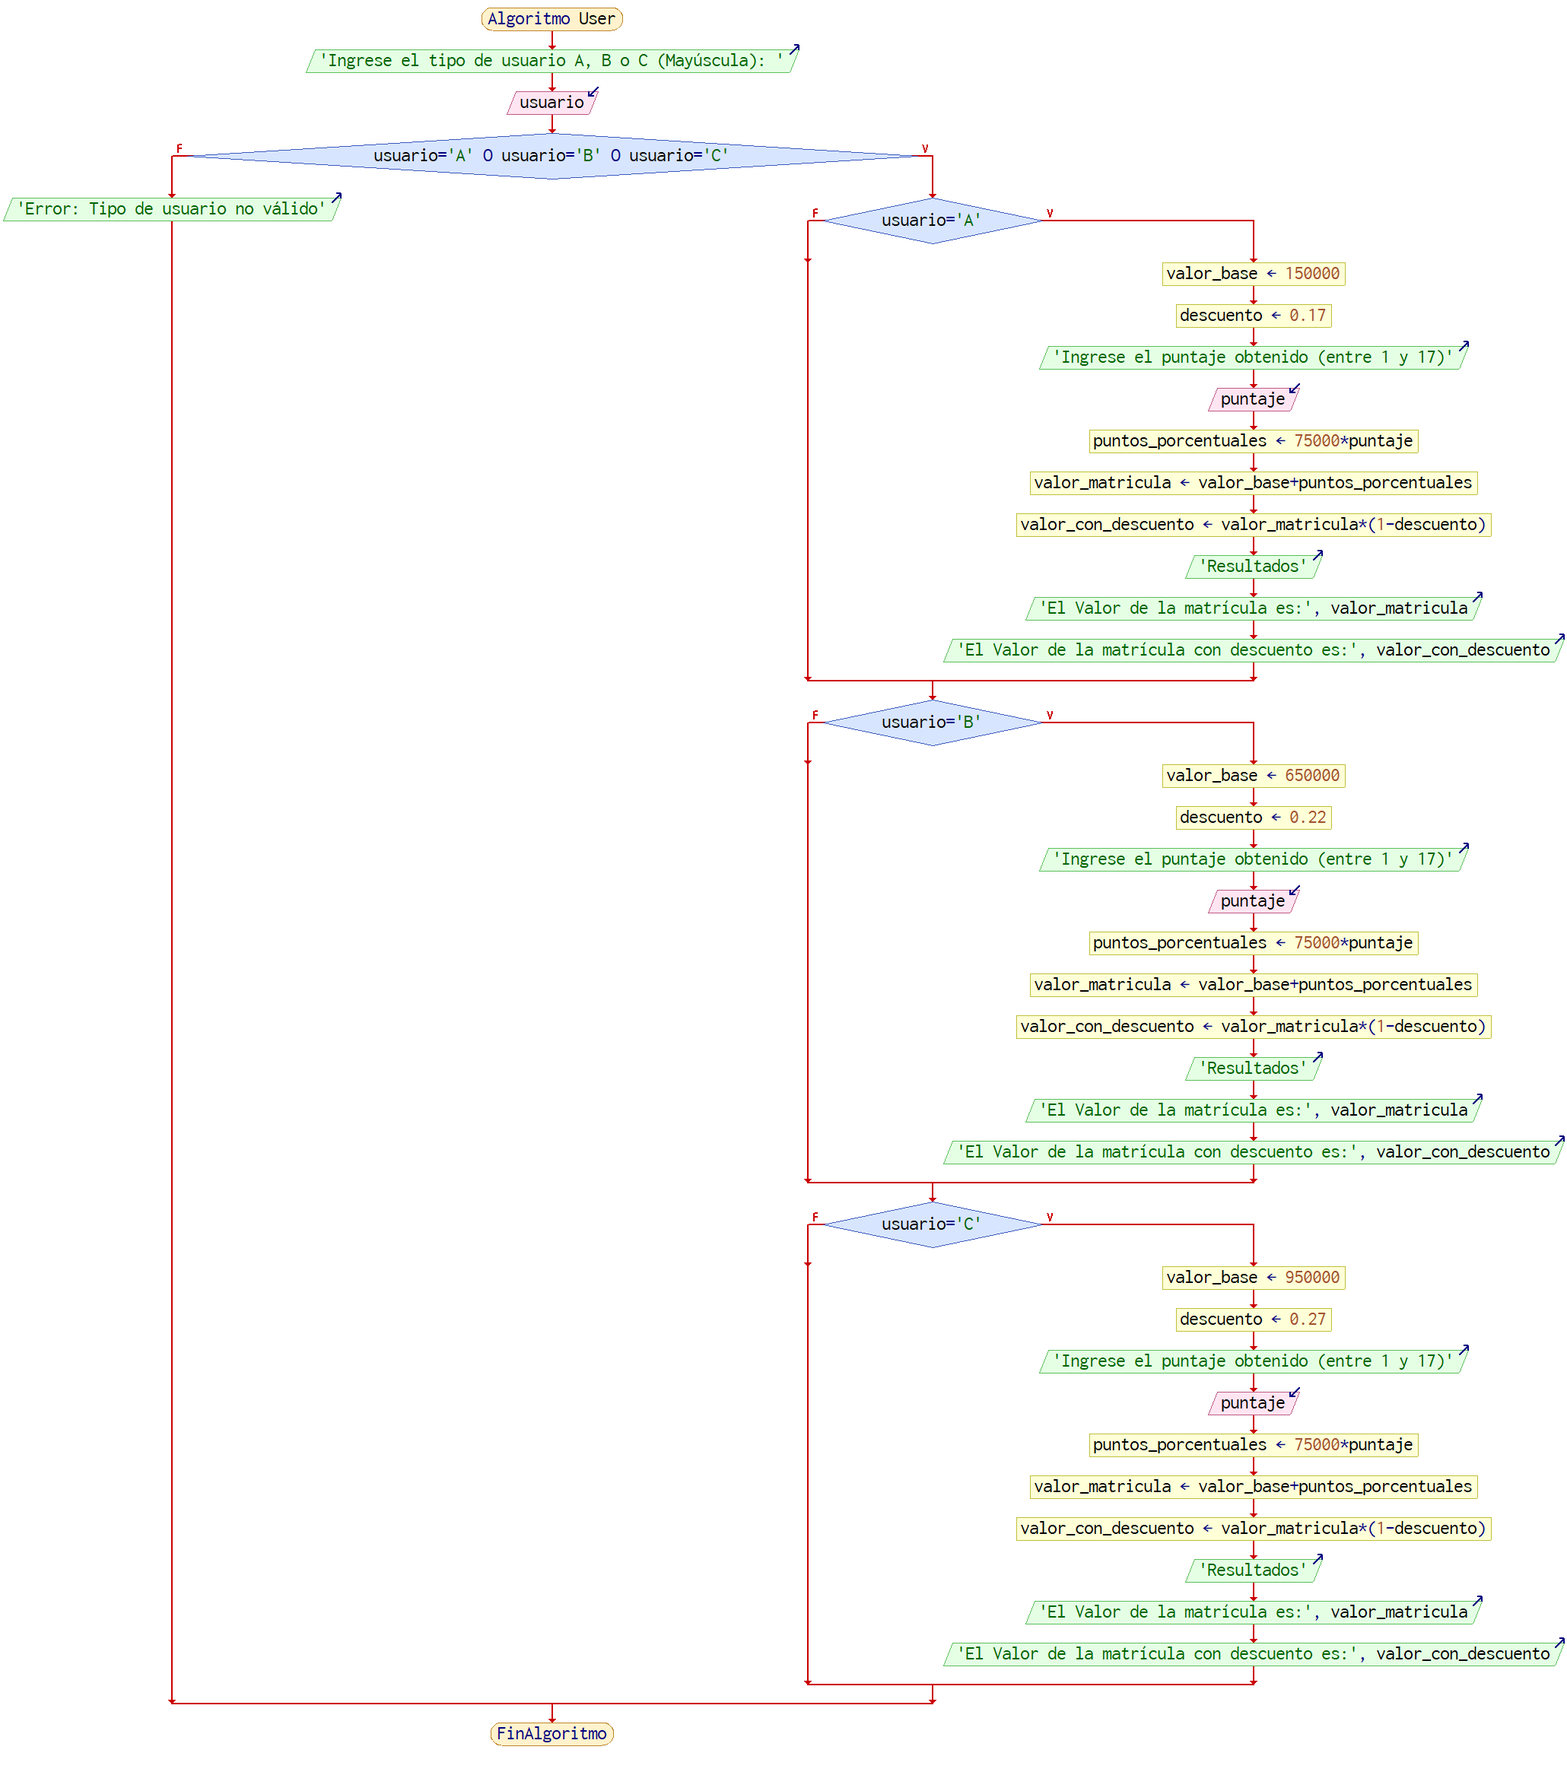
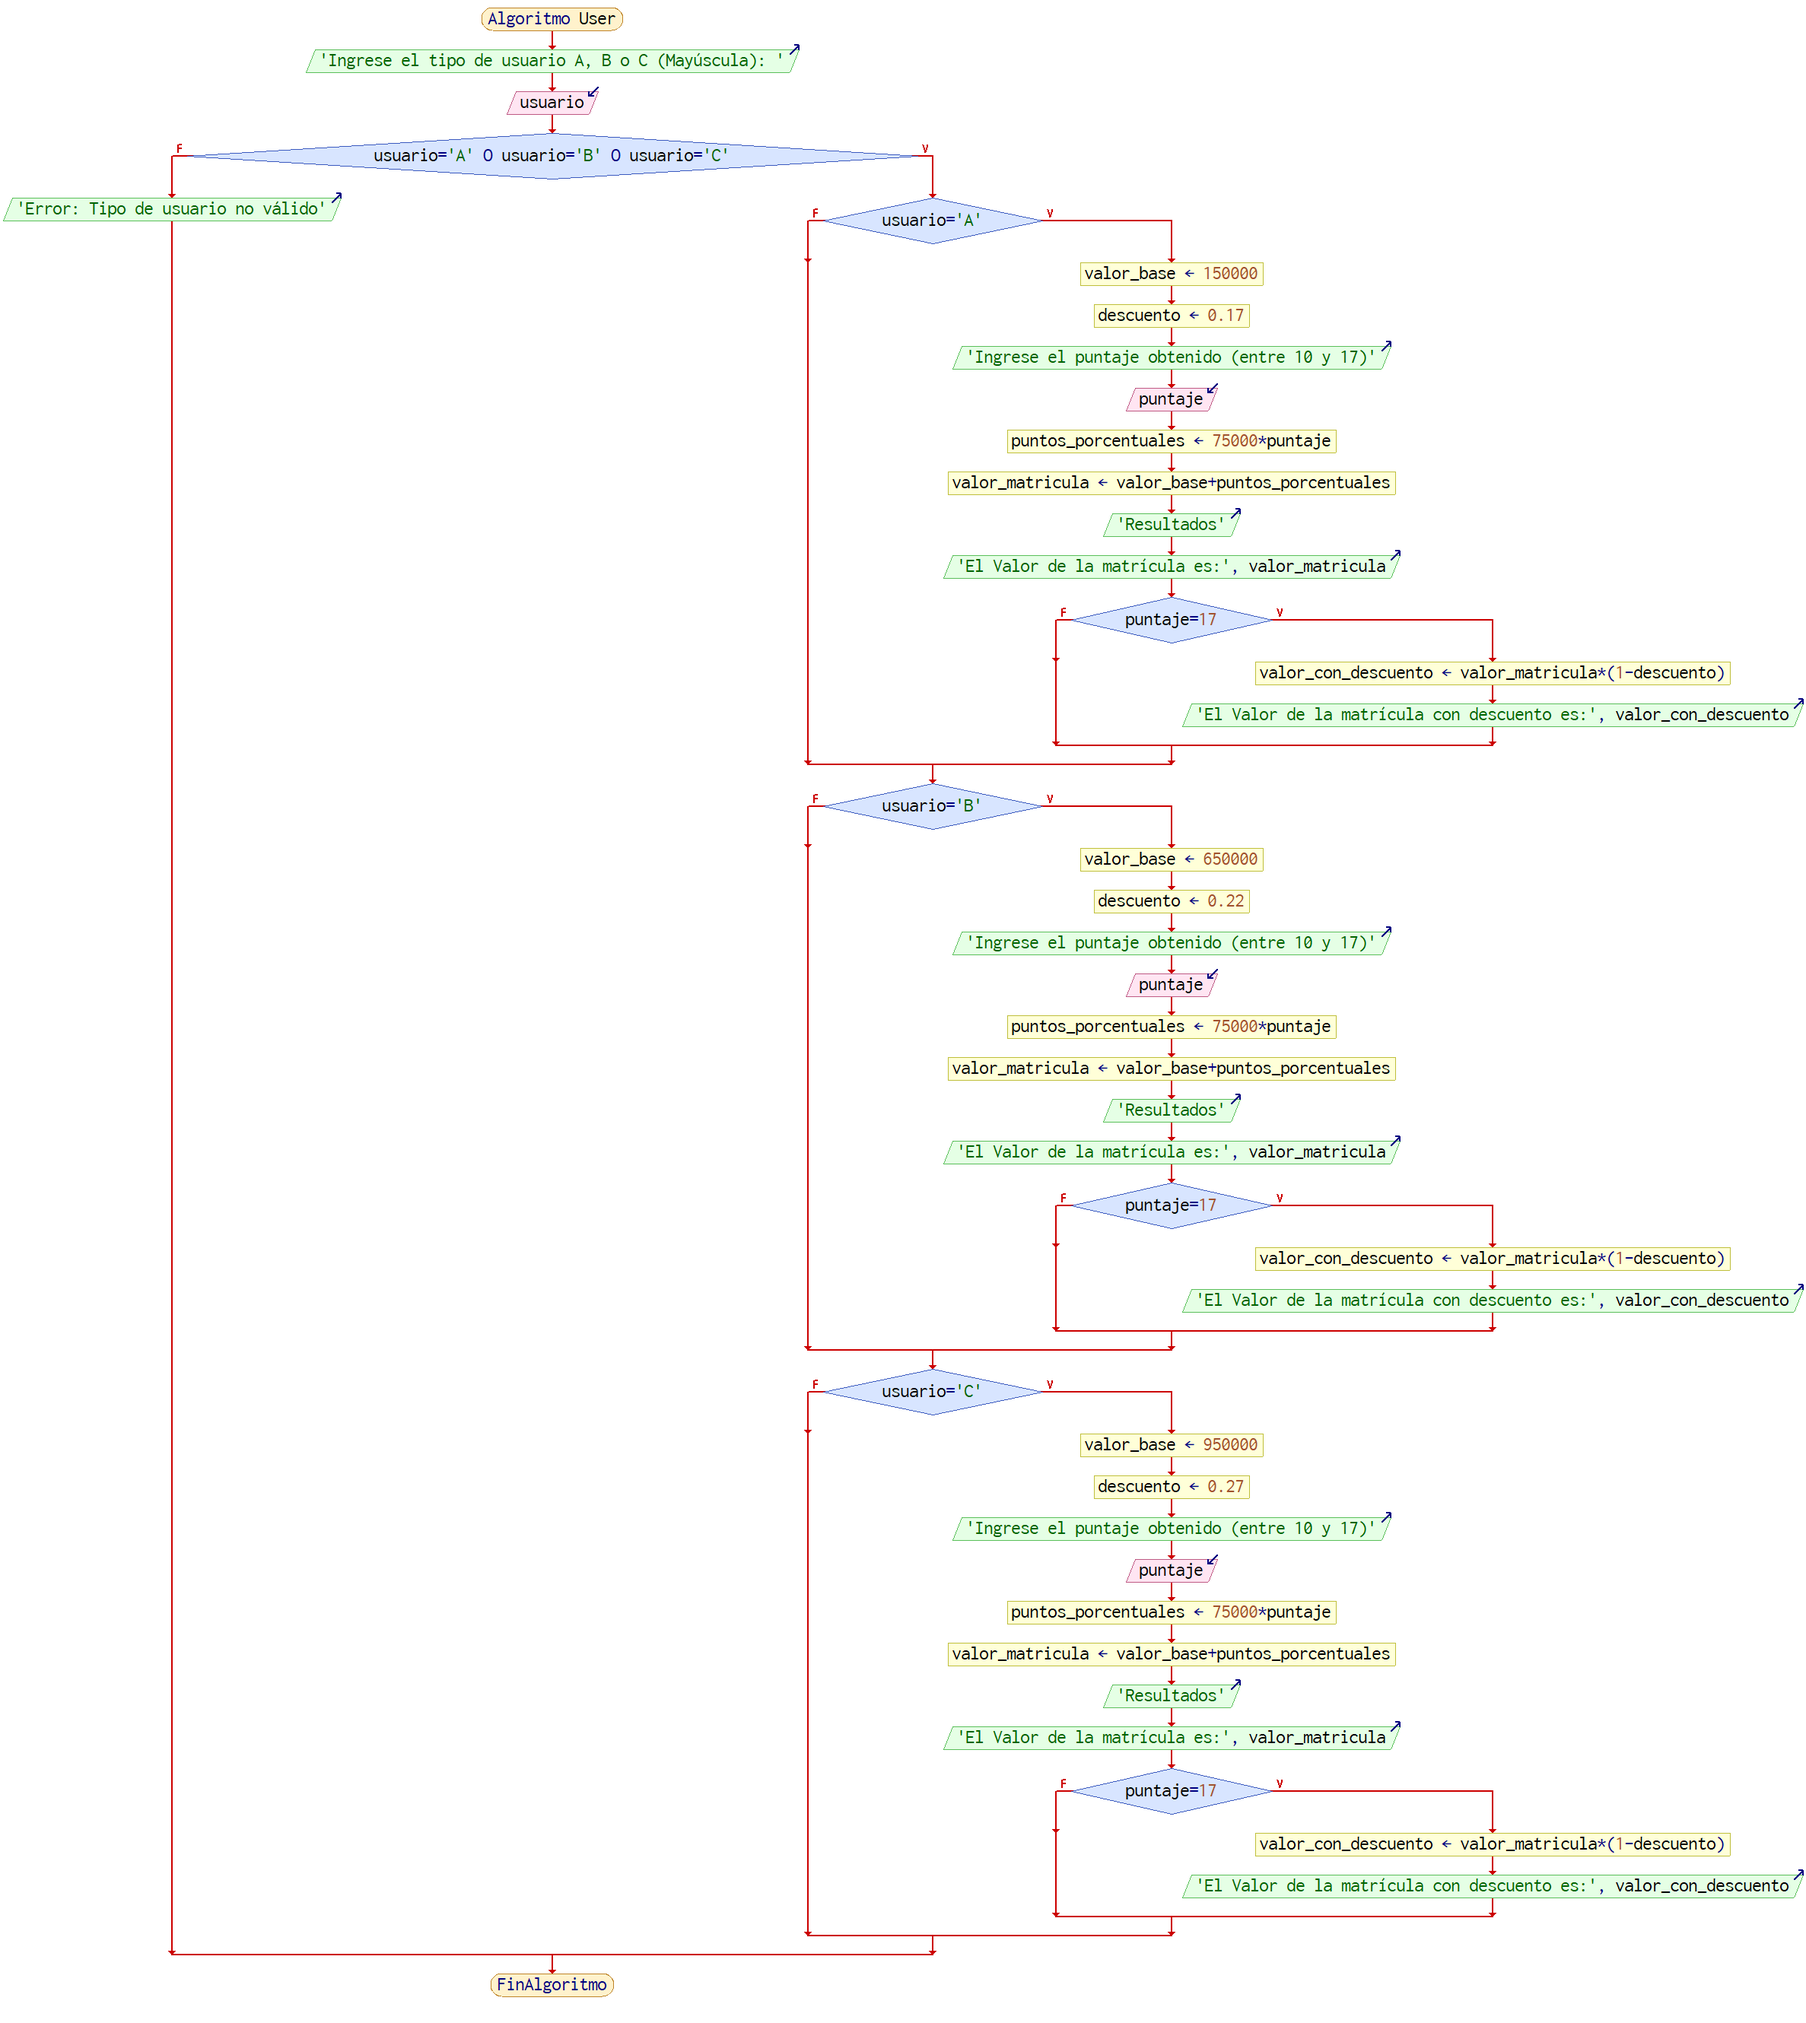
Correción
Se corrigió el ejercicio 1 y su diagrama de flujo

Changed region(s): [[0.0, 0.0, 1.0, 0.9579], [0.2485, 0.9579, 0.4039, 0.9888]]

diff --git a/ejercicio 1 (taller 1).py b/ejercicio 1 (taller 1).py
@@ -11,10 +11,15 @@ elif tipo_usuario == "C":
 else:
     print("Error: Tipo de usuario no válido.")
     exit()# Finaliza el programa si el tipo de usuario no es válido
-puntaje = int(input("Ingrese el puntaje obtenido (entre 1 y 17): "))
+puntaje = int(input("Ingrese el puntaje obtenido (entre 10 y 17): "))
 puntos_porcentuales = 75000 * puntaje
 valor_matricula = valor_base + puntos_porcentuales
-valor_con_descuento = valor_matricula * (1 - descuento)
-print("RESULTADOS")
-print("El Valor de la matrícula es: $%.2f" % valor_matricula)
-print("Valor de la matrícula con descuento es: $%.2f" %valor_con_descuento)
+print("El valor de la matricula es: $%.2f" % valor_matricula)
+
+if puntaje == 17:
+    valor_con_descuento = valor_matricula * (1 - descuento) 
+    print("El valor de la matricula con descuento es: $%.2f" %valor_con_descuento)
+
+
+
+
